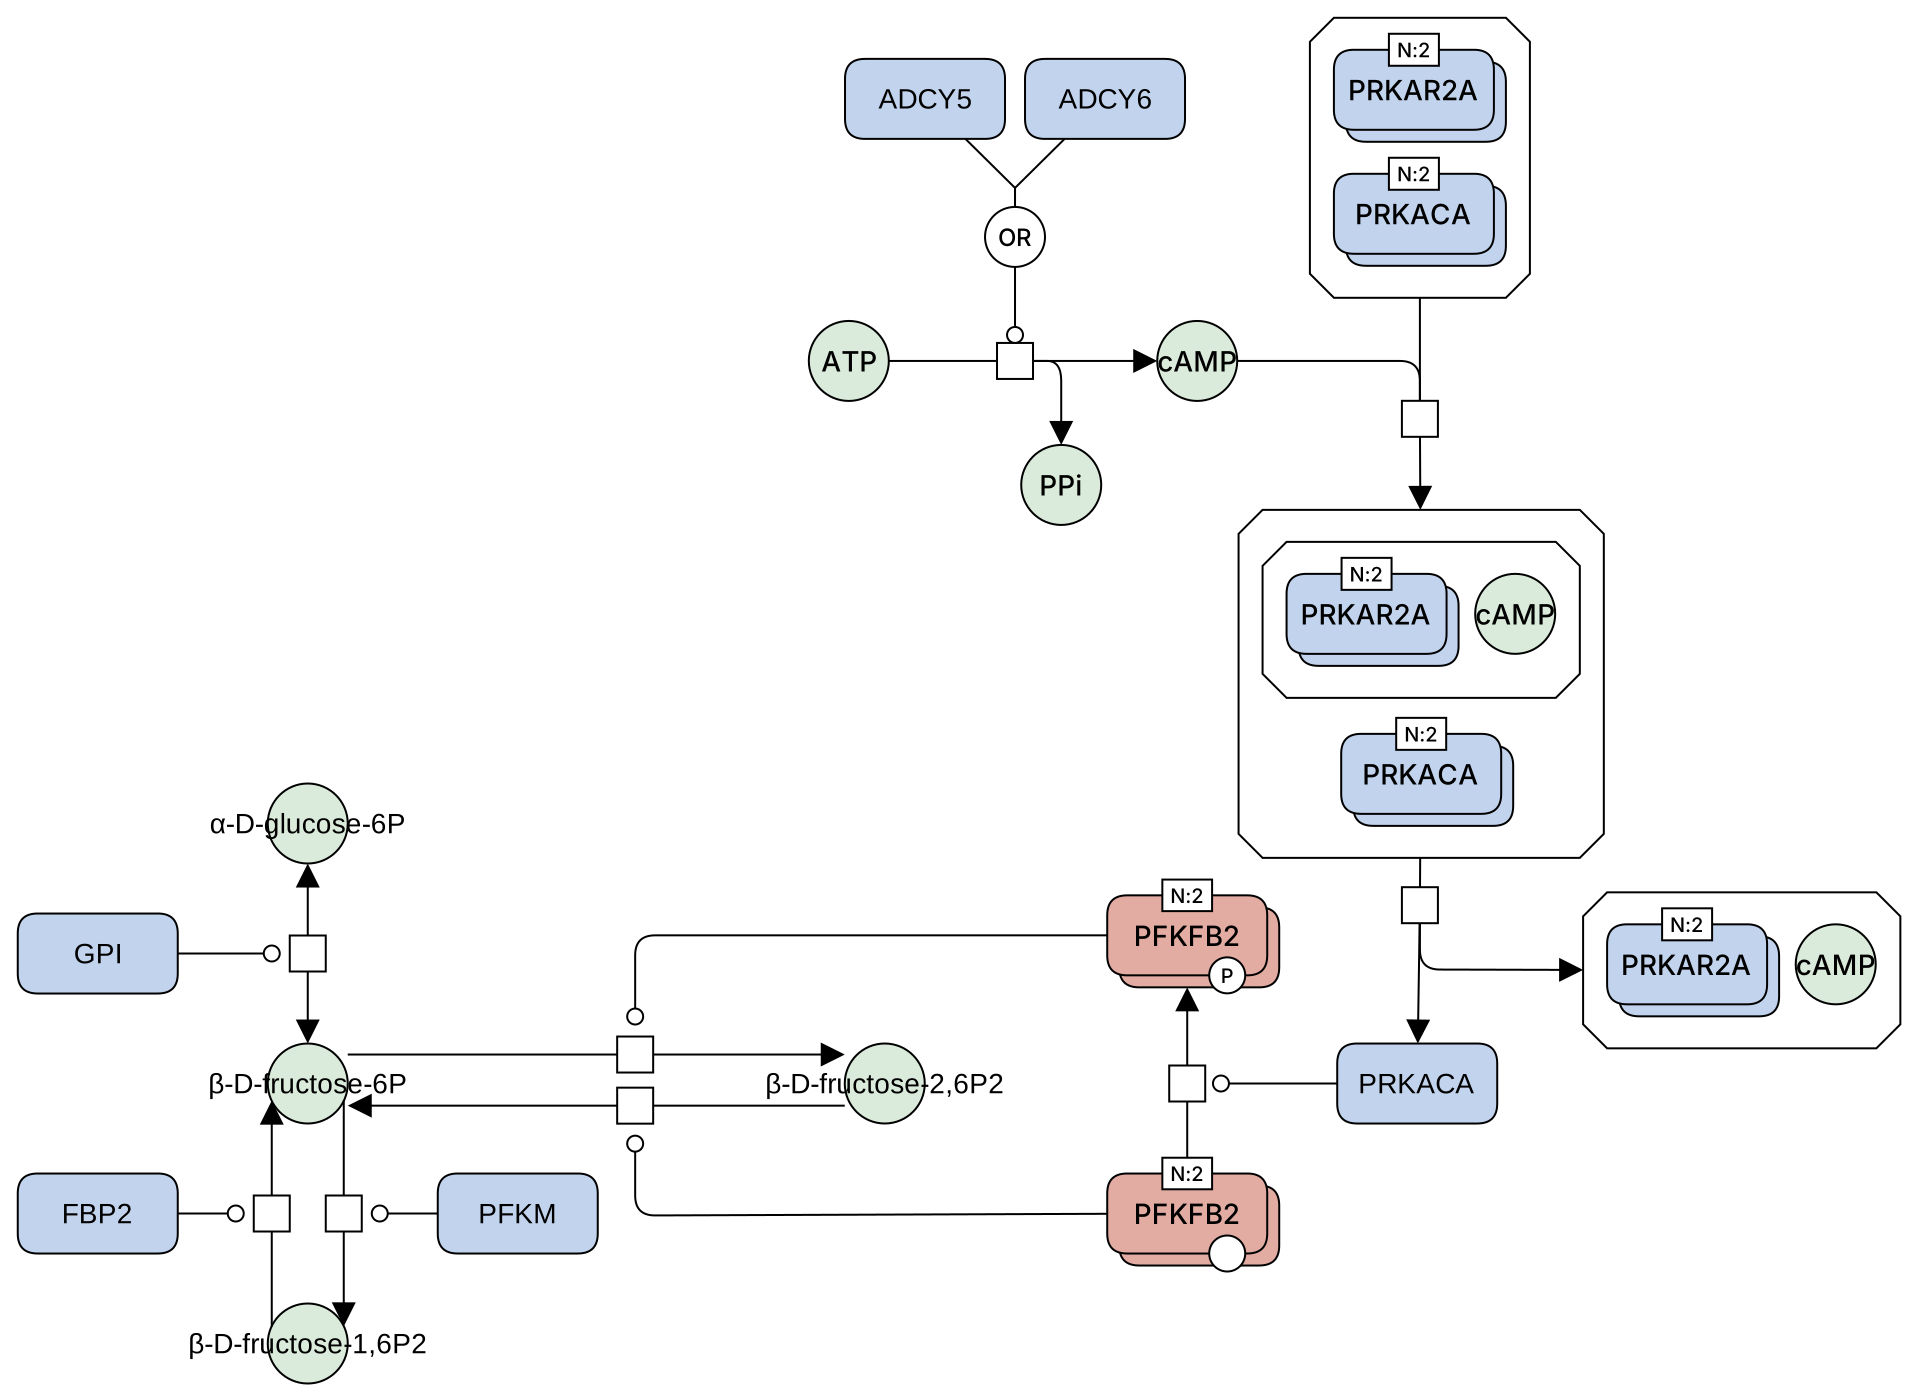
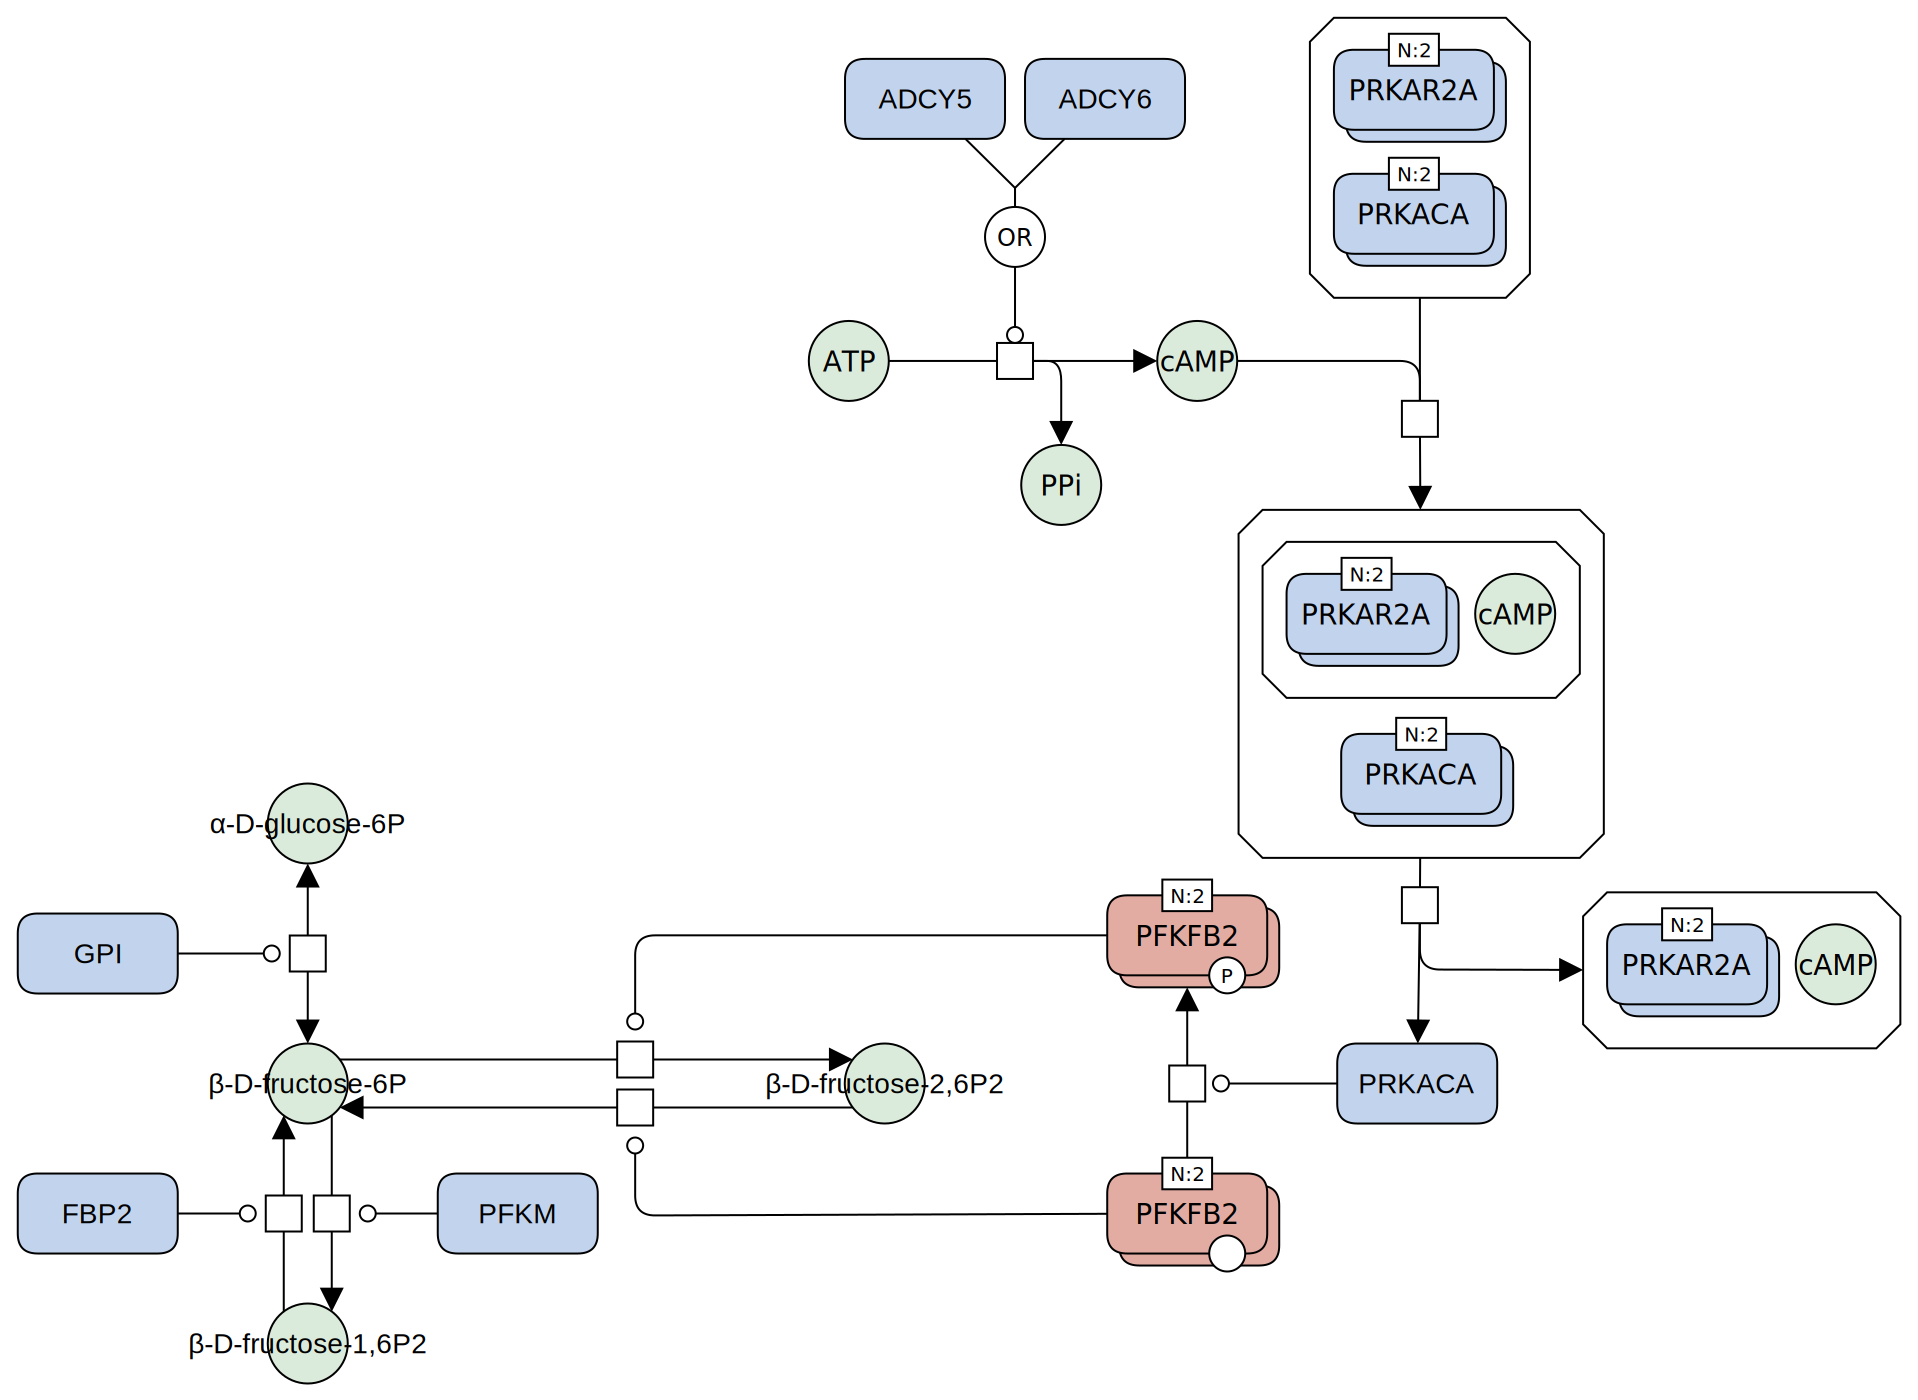
Atlas data rebuilt after upload

diff --git a/_maps/bcaa.md b/_maps/bcaa.md
@@ -10,7 +10,7 @@ draft: false
 tag: ""
 image: "/atlas-downloads/F022-bcaa.svg"
 width: 1358
-height: 998
+height: 1030
 scale: 1
 annotation: "/atlas-data/F022-bcaa.json"
 image_error: ""
